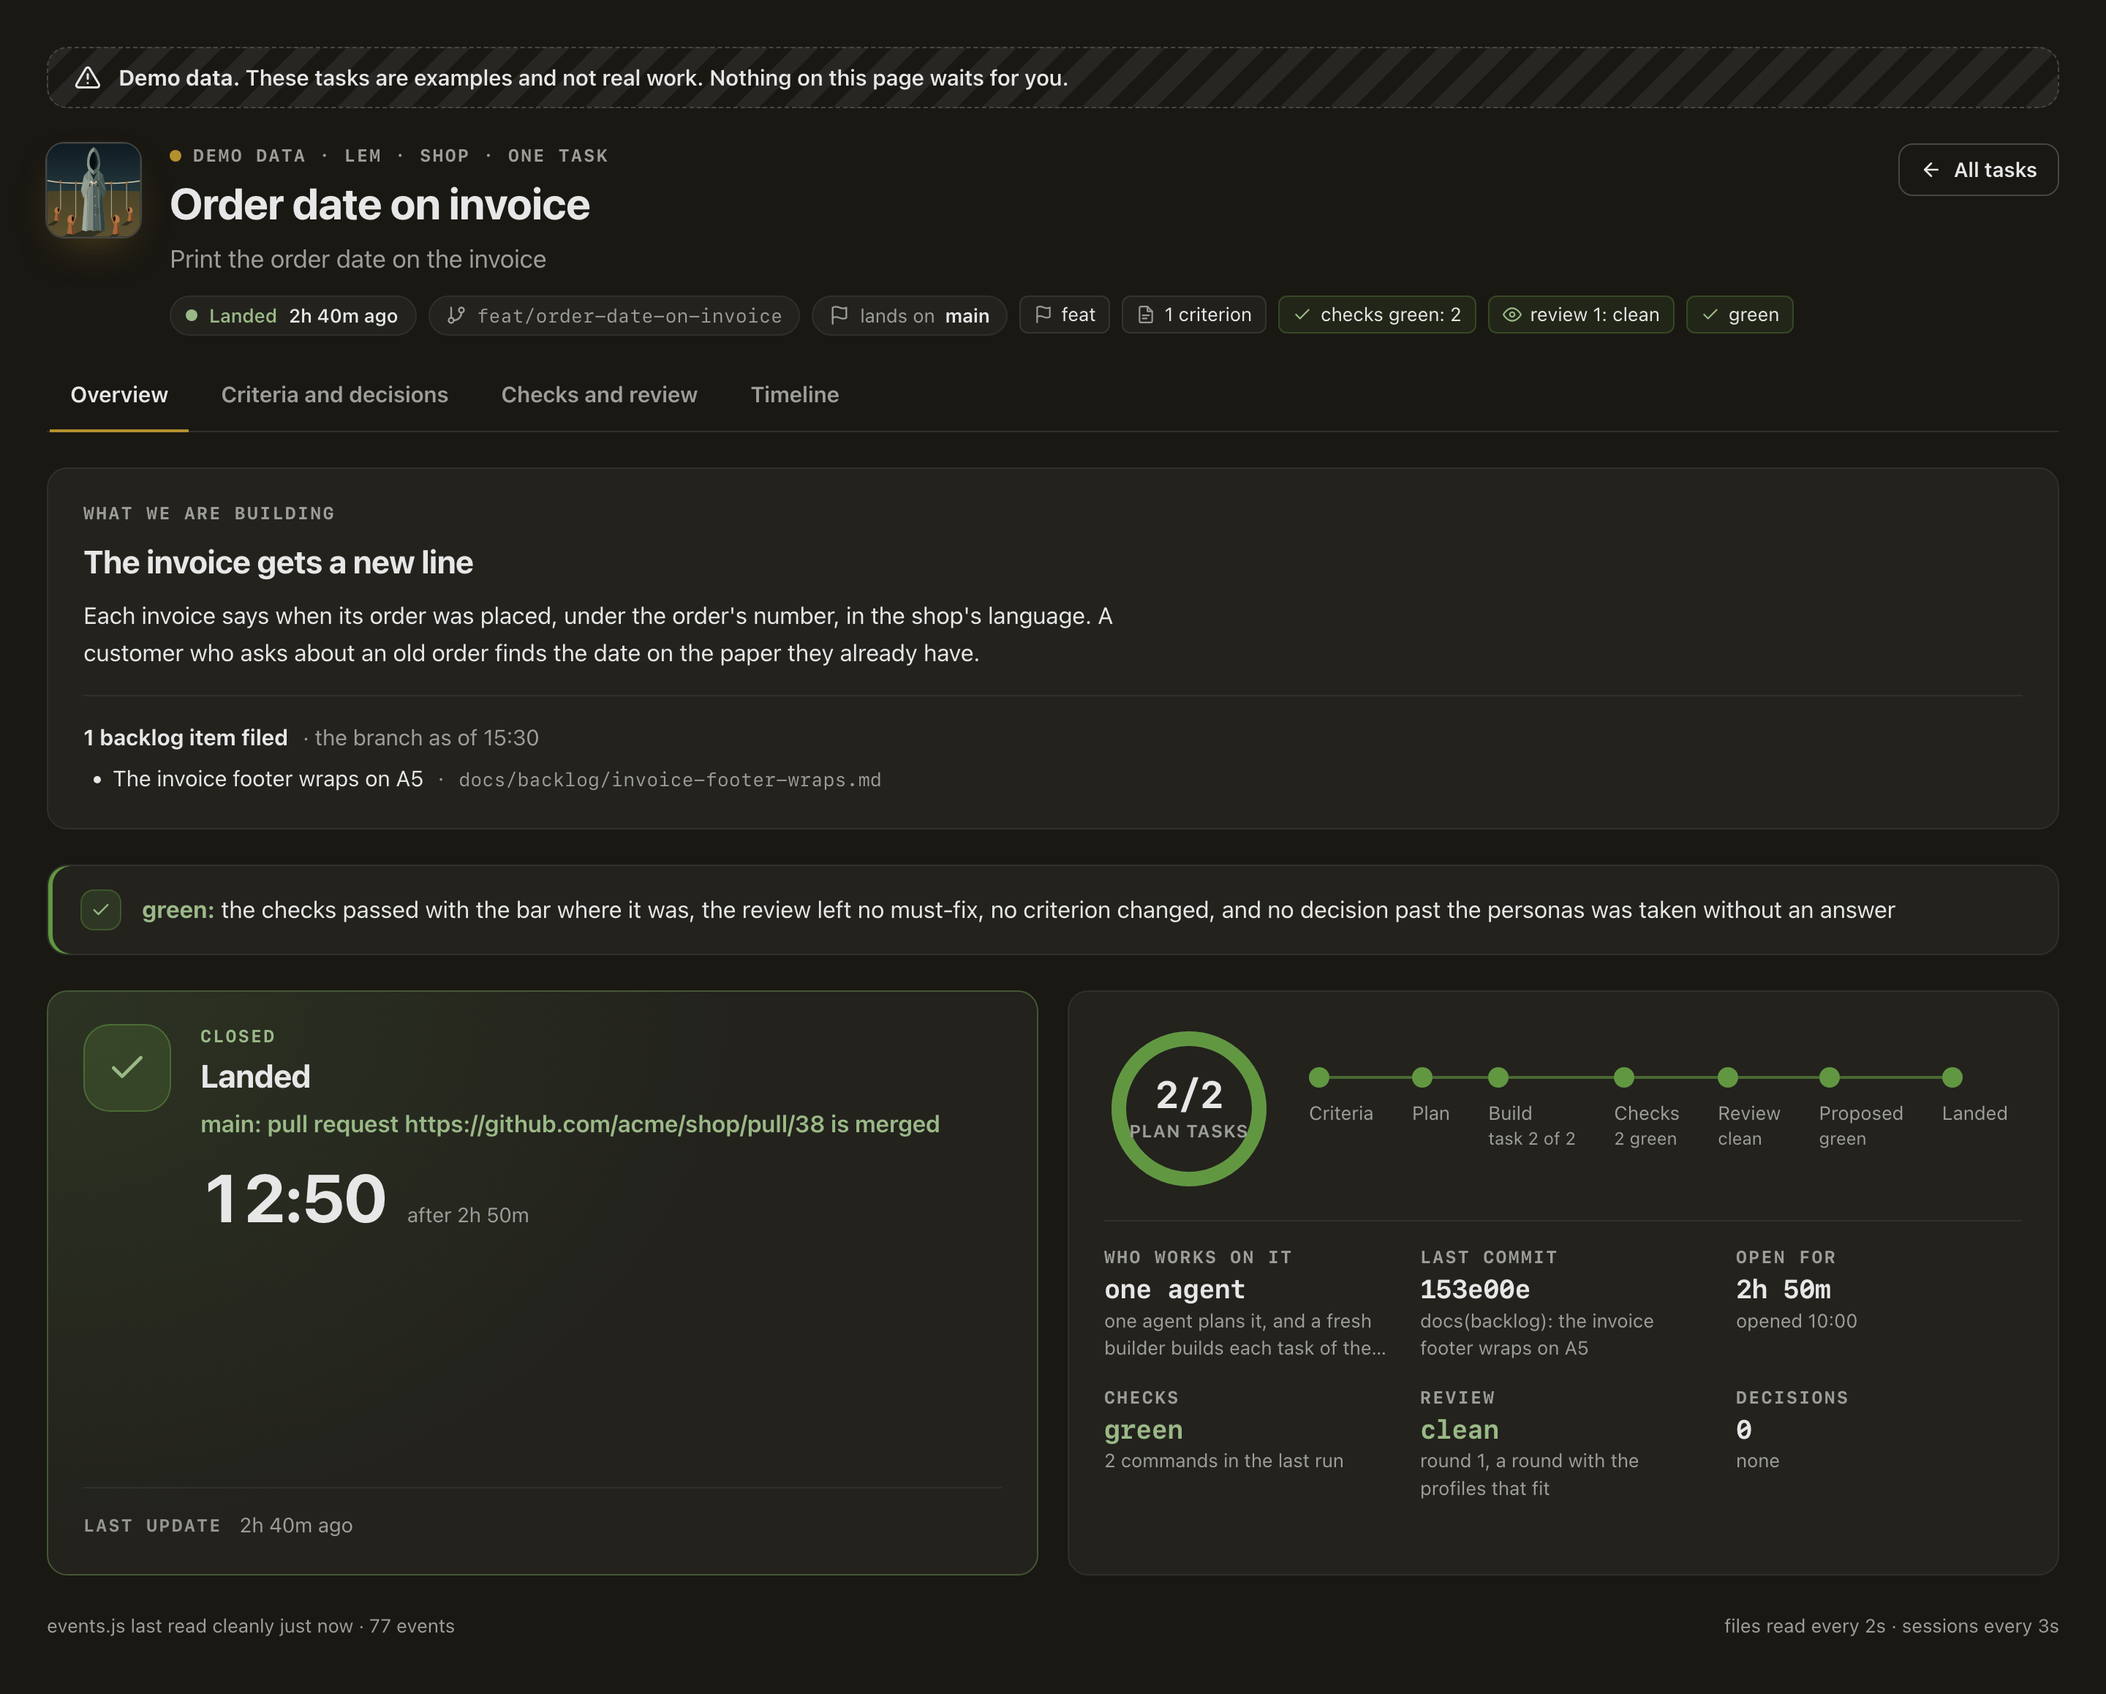
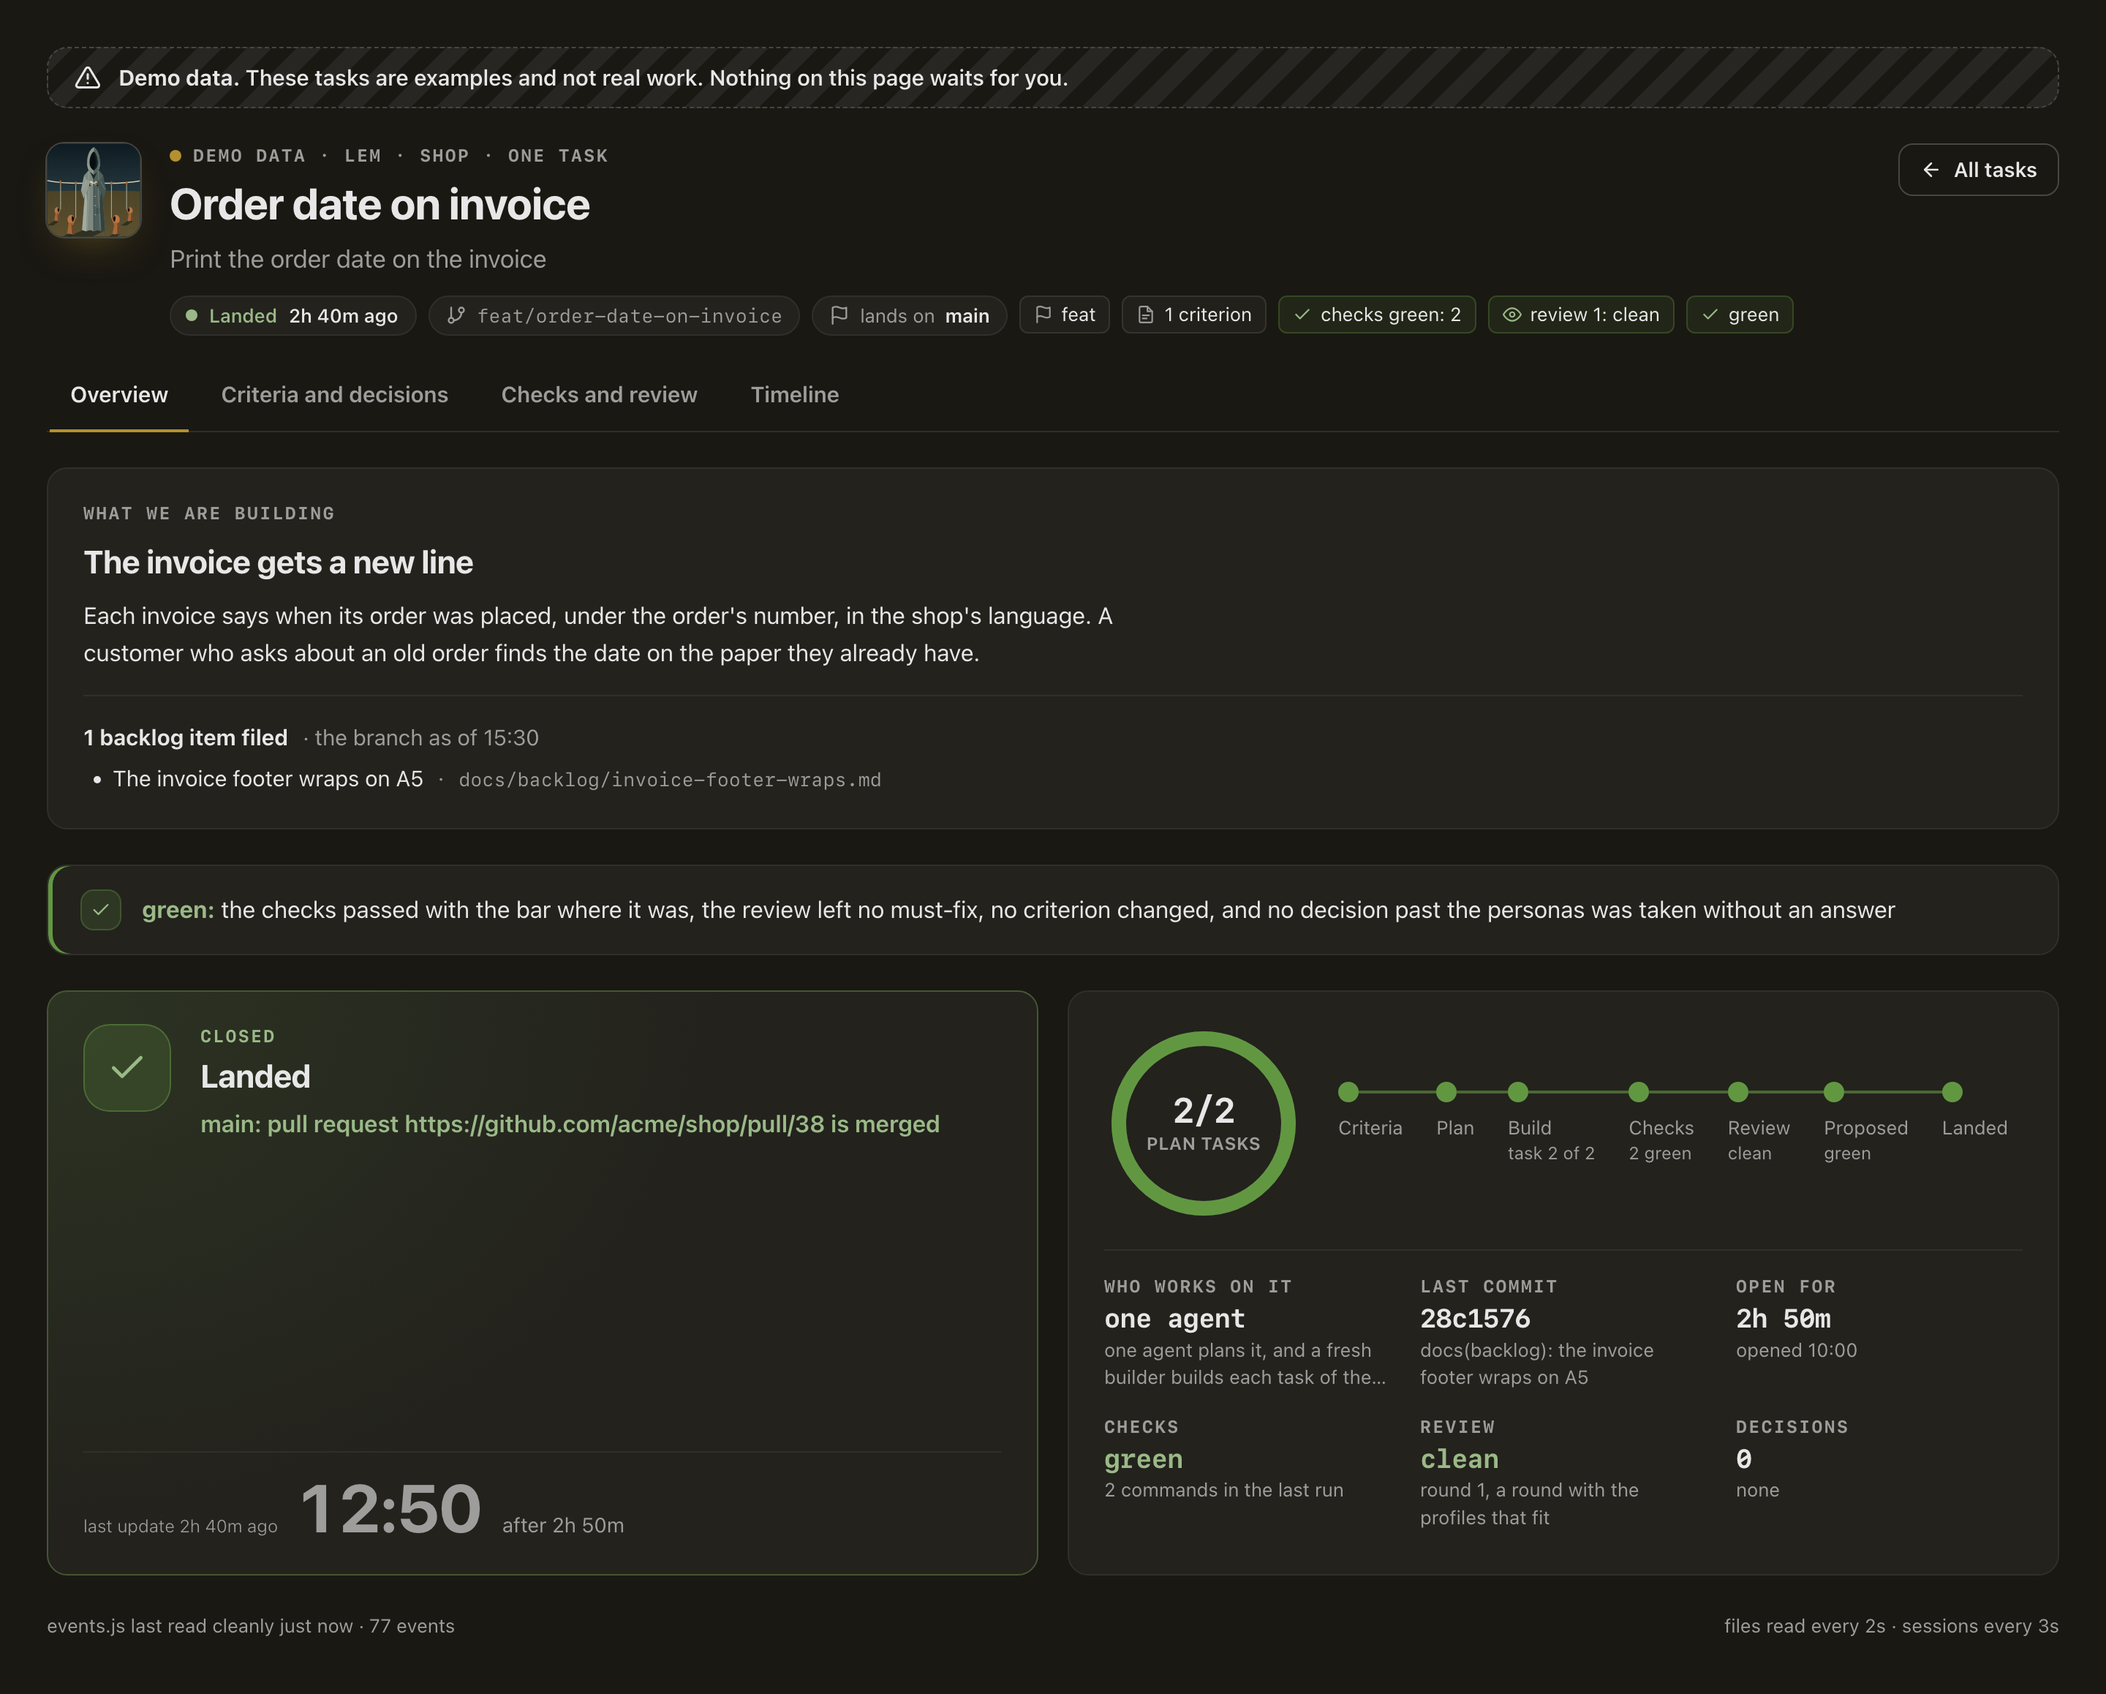
fix(board): the ring's label keeps room to its stroke, and the time in this state stays in the large card's foot (#6)
* fix(board): the ring's label keeps room to its stroke, and the time in this state stays in the large card's foot

* docs(backlog): the polish pass is asked again after a red base held the task

* docs(backlog): how merges happen, and whether a project runs its tests in parallel

* fix(board): the note beside the time stays whole in the large card's foot, and the last update gives way first

Review 1 of the task: at 1200 px the note "in this state" was cut to nothing when the task had a session, and a waiting choice's note showed only its first words. A choice's foot now puts the last update on a line of its own and lets the note wrap beside the time; the check measures the note at 1400 and 1200 px.

diff --git a/skills/lem/assets/board.html b/skills/lem/assets/board.html
@@ -75,8 +75,12 @@
   .timer { font: 700 46px/1 var(--sans); letter-spacing: -.02em; font-variant-numeric: tabular-nums; }
   .a-you .timer, .a-bad .timer { color: var(--ink); }
   .note { font-size: 14px; color: var(--dim); }
-  .now-next { position: relative; margin-top: auto; padding-top: 14px; border-top: 1px solid var(--line); display: flex; align-items: center; gap: 6px 12px; flex-wrap: wrap; font-size: 14px; color: var(--dim); }
-  .now-next .lbl { font: 650 12px/1.4 var(--mono); letter-spacing: .1em; text-transform: uppercase; color: var(--faint); }
+  .now-next { position: relative; margin-top: auto; padding-top: 14px; border-top: 1px solid var(--line); display: flex; align-items: baseline; gap: 6px 12px; flex-wrap: wrap; font-size: 14px; color: var(--dim); }
+  .now-next .ago { font-size: 12px; font-weight: 300; color: var(--dim); }
+  /* the note beside the time stays whole, and wraps beside it when it is long */
+  .now-next .timer-row { margin-top: 0; flex: 0 1 auto; min-width: 0; flex-wrap: nowrap; }
+  .now-next .timer { flex: none; }
+  .now-next .note { min-width: 0; }
   .now-next .right { margin-left: auto; }
   .now-spacer { height: 16px; }
   /* The large card of one task has one height whatever its lines, and the card beside it the same:
@@ -88,7 +92,12 @@
   .hero:not(.one) .now-in { flex: 1 1 auto; min-height: 0; overflow-y: auto; }
   .hero:not(.one) .now-next { flex-wrap: nowrap; }
   .hero:not(.one) .now-next > span:not(.right) { min-width: 0; overflow: hidden; text-overflow: ellipsis; white-space: nowrap; }
-  .hero:not(.one) .now-next .lbl { flex: none; }
+  /* The foot is one line, and the last update gives way first. A choice's note is too long for one
+     line: there the last update has a line of its own above the time, and the button one below it. */
+  .hero:not(.one) .now-next:not(.apart) .timer-row { flex: none; }
+  .hero:not(.one) .now-next.apart { flex-wrap: wrap; }
+  .hero:not(.one) .now-next.apart > span.ago { flex-basis: 100%; }
+  .hero:not(.one) .now-next .right { align-self: flex-end; }
   .now-next .right { flex: none; }
   /* the board of all tasks: the large card is one band, its count-down and its button at the right.
      Its actor is a bar at its left edge and the ring of its icon, never its surface. */
@@ -108,16 +117,16 @@
 
   /* progress */
   .prog { display: grid; grid-template-columns: auto minmax(0, 1fr); gap: 18px 24px; align-items: center; }
-  .ring-wrap { position: relative; width: 116px; height: 116px; }
+  .ring-wrap { position: relative; width: 136px; height: 136px; }
   .ring { display: block; }
   .ring circle { fill: none; stroke-width: 10; }
   .ring .done { stroke: var(--ok); }
   .ring .cur { stroke: var(--lead); animation: breathe 2s ease-in-out infinite; }
   .ring .todo { stroke: color-mix(in srgb, var(--fg) 12%, transparent); }
   .ring-center { position: absolute; inset: 0; display: grid; place-content: center; text-align: center; }
-  .ring-center b { font: 700 26px/1 var(--mono); letter-spacing: -.03em; }
-  /* in the sans face: its words fit inside the ring, where the monospace eyebrow ran onto the stroke */
-  .ring-center span { font: 650 12px/1.3 var(--sans); color: var(--dim); letter-spacing: .05em; text-transform: uppercase; margin-top: 4px; }
+  .ring-center b { font: 700 24px/1 var(--mono); letter-spacing: -.03em; }
+  /* in the sans face, at 12 px and spaced .02em: its words keep 8 px or more to the stroke on both sides */
+  .ring-center span { font: 650 12px/1.25 var(--sans); color: var(--dim); letter-spacing: .02em; text-transform: uppercase; margin-top: 3px; }
   .phases { display: flex; align-items: flex-start; }
   /* Each phase is as wide as its words and shares the rest, and its right padding keeps two labels
      apart: in equal columns at 1300 px "task 2 of 2" and "2 green" stood 3 px apart, and "Proposed"
@@ -1877,10 +1886,10 @@ function buildBoardNow(m) {
 }
 
 function ring(done, current, total, big, small) {
-  const R = 48, C = 2 * Math.PI * R, safe = Math.max(1, total);
-  const arc = (cls, from, n) => n > 0 ? s('circle', {class: cls, cx: 58, cy: 58, r: R, 'stroke-dasharray': `${(C * n) / safe} ${C}`, 'stroke-dashoffset': -(C * from) / safe, transform: 'rotate(-90 58 58)'}) : null;
+  const R = 58, C = 2 * Math.PI * R, safe = Math.max(1, total);
+  const arc = (cls, from, n) => n > 0 ? s('circle', {class: cls, cx: 68, cy: 68, r: R, 'stroke-dasharray': `${(C * n) / safe} ${C}`, 'stroke-dashoffset': -(C * from) / safe, transform: 'rotate(-90 68 68)'}) : null;
   return h('div', {class: 'ring-wrap'},
-    s('svg', {class: 'ring', width: 116, height: 116, viewBox: '0 0 116 116'}, s('circle', {class: 'todo', cx: 58, cy: 58, r: R}), arc('done', 0, done), arc('cur', done, current)),
+    s('svg', {class: 'ring', width: 136, height: 136, viewBox: '0 0 136 136'}, s('circle', {class: 'todo', cx: 68, cy: 68, r: R}), arc('done', 0, done), arc('cur', done, current)),
     h('div', {class: 'ring-center'}, h('b', {}, big), h('span', {}, small)));
 }
 const stat = (label, value, sub, cls = '') => h('div', {class: `stat ${cls}`, title: sub ?? ''}, h('div', {class: 'sk'}, label), h('div', {class: 'sv'}, value), h('div', {class: 'ss'}, sub ?? ''));
@@ -2103,14 +2112,10 @@ function buildTaskNow(t) {
           h('div', {class: 'now-ctx'}, `recommended: ${c.recommended} · ${STATUS[t.status]?.label ?? t.status}${t.shown ? `: ${t.shown}` : ''}`),
           Object.keys(c.advice).length ? h('div', {class: 'now-ctx'}, `the experts: ${Object.keys(EXPERTS).filter(key => c.advice[key])
             .map(key => `${expertName(key)} ${c.advice[key].pick != null ? `“${c.advice[key].pick}”` : 'none fits'}`).join(' · ')}`) : '',
-          h('div', {class: 'now-ctx'}, h('b', {}, 'Where you answer: '), answerOf(t)),
-          h('div', {class: 'timer-row'}, h('span', {class: 'timer'}, live(c.ts)),
-            h('span', {class: 'note'}, c.irreversible ? `since it was asked · it waits for your answer: ${IRREVERSIBLE[c.irreversible] ?? c.irreversible}`
-              : `since it was asked · if you say you are away, the build goes on with ${endOf(c)}`)))),
+          h('div', {class: 'now-ctx'}, h('b', {}, 'Where you answer: '), answerOf(t)))),
       h('div', {class: 'now-spacer'}),
-      h('div', {class: 'now-next'}, h('span', {class: 'lbl'}, 'Last update'), h('span', {}, h('span', {'data-ago': t.lastTs})),
-        pane?.status ? h('span', {}, `· the session is ${pane.status}`) : '',
-        pane ? h('span', {class: 'right'}, jump(pane.id, 'Go to the session')) : '')));
+      nowFoot(t, pane, live(c.ts), c.irreversible ? `since it was asked · it waits for your answer: ${IRREVERSIBLE[c.irreversible] ?? c.irreversible}`
+        : `since it was asked · if you say you are away, the build goes on with ${endOf(c)}`, true)));
   }
   const head = {
     queued: t.waitsAfter ? 'Waits for the task it needs' : 'Waits to start', building: t.investigating ? 'Its investigator examines it, before any criterion' : LEAD[leadOf(t)].head,
@@ -2132,13 +2137,19 @@ function buildTaskNow(t) {
         t.shown ? h('div', {class: 'now-status'}, t.shown) : '',
         t.more.length ? h('div', {class: 'now-ctx'}, t.more.join(' · ')) : '',
         ...found,
-        t.forOwner ? h('div', {class: 'now-ctx'}, h('b', {}, 'Where you answer: '), answerOf(t)) : '',
-        h('div', {class: 'timer-row'}, h('span', {class: 'timer'}, t.closed ? stamp(t.since, Date.now()) : live(t.since)),
-          h('span', {class: 'note'}, t.closed ? `after ${span(t.since - t.first)}` : 'in this state')))),
+        t.forOwner ? h('div', {class: 'now-ctx'}, h('b', {}, 'Where you answer: '), answerOf(t)) : '')),
     h('div', {class: 'now-spacer'}),
-    h('div', {class: 'now-next'}, h('span', {class: 'lbl'}, 'Last update'), h('span', {}, h('span', {'data-ago': t.lastTs})),
-      pane?.status ? h('span', {}, `· the session is ${pane.status}`) : '',
-      pane ? h('span', {class: 'right'}, jump(pane.id, 'Go to the session')) : '')));
+    nowFoot(t, pane, t.closed ? stamp(t.since, Date.now()) : live(t.since), t.closed ? `after ${span(t.since - t.first)}` : 'in this state')));
+}
+
+// The foot of the large card, which never scrolls: the last update at its left in small, thin
+// text, the time in this state, and "Go to the session" at its right. A long note (`apart`) puts the
+// last update on a line of its own above the time, and the button on one below it.
+function nowFoot(t, pane, time, note, apart = false) {
+  return h('div', {class: apart ? 'now-next apart' : 'now-next'},
+    h('span', {class: 'ago'}, 'last update ', h('span', {'data-ago': t.lastTs}), pane?.status ? ` · the session is ${pane.status}` : ''),
+    h('div', {class: 'timer-row'}, h('span', {class: 'timer'}, time), h('span', {class: 'note'}, note)),
+    pane ? h('span', {class: 'right'}, jump(pane.id, 'Go to the session')) : '');
 }
 
 // The step of the flow the task reached: the criteria, the plan, the build, the machine checks, the

diff --git a/docs/backlog/how-merges-and-parallel-tests-go.md b/docs/backlog/how-merges-and-parallel-tests-go.md
@@ -1,0 +1,30 @@
+---
+worth: maybe
+where: skills/lem/stages/land.md
+added: 2026-11-19
+---
+# how merges happen, and whether a project runs its tests in parallel
+
+The owner: "explore how merges happening and whether parallel tests are running usually in
+project" (2026-11-19). An open question for research, before any change.
+
+What one day in Lem's own repository showed (2026-11-19):
+
+- One task is in `landing` at a time, and the full suite runs under one lock (`checks.serial`),
+  so the landing of status-boards-steady-look waited while another task's checks ran.
+- `bash tests/all.sh` runs its suites at the same time. `tests/lem-picker.sh` passed alone on the
+  branch and on `main`, and failed inside `all.sh`, because a minute boundary fell in its slower
+  setup. A task for that test landed first (#2) and held the landing for about an hour.
+- Pull requests #3 and #4 were open together, and #4 merged first. The forge did not call #3
+  conflicting afterwards; Lem brings onto the base only a pull request the forge calls
+  conflicting.
+
+Questions to answer with sources (what teams that use GitHub pull requests do, and what the test
+runners of common stacks do by default):
+
+1. How do teams merge several open pull requests: one at a time with a rebase and a new test run,
+   a merge queue (GitHub's merge queue, a bot), or as they are?
+2. Do projects usually run their test suites in parallel (pytest-xdist, Jest workers, Go's
+   packages), and do they keep the slow or shared-resource tests serial?
+3. What does that mean for Lem's landing line, its one lock for `checks.serial`, and a test that
+   passes alone and fails in a parallel run?

diff --git a/docs/backlog/polish-asked-again-after-a-red-base.md b/docs/backlog/polish-asked-again-after-a-red-base.md
@@ -1,0 +1,23 @@
+---
+worth: yes
+where: skills/lem/scripts/land.py:cmd_polish
+added: 2026-11-19
+---
+# the polish pass is asked again after a red base held the task
+
+`stages/polish.md` says the pass runs once for a task, and that the rebase of `base` keeps it. One
+landing of status-boards-steady-look (2026-11-19) went another way:
+
+1. `lem land polish --done` logged the pass on `00c2291` (four commits, three items filed).
+2. `checks` was red by a test of the base, so the task went `blocked` with `the base is red` and
+   `after:` a task for that test, and that task landed as `28d3c81`.
+3. The task went `ready` again, and `lem land start`, then `base`, rebased it onto `28d3c81`.
+4. `lem land polish` then printed `"done": false` and took the rebased tip, `58e5f1e`, as the
+   start of a new pass.
+5. `checks` refused: "the polish pass started at 58e5f1ecb and is not done". Lem closed the new
+   pass with `--done` and no commits, so the record holds a second pass that no builder made.
+
+What to look at: whether `start` of a task that comes back from `blocked` drops the pass that
+`landing.json` holds, or whether `cmd_polish` compares the pass with the tip and not with the
+range of the task's own commits. The fix keeps a pass across a rebase of `base` after any stop,
+as `stages/polish.md` says.
